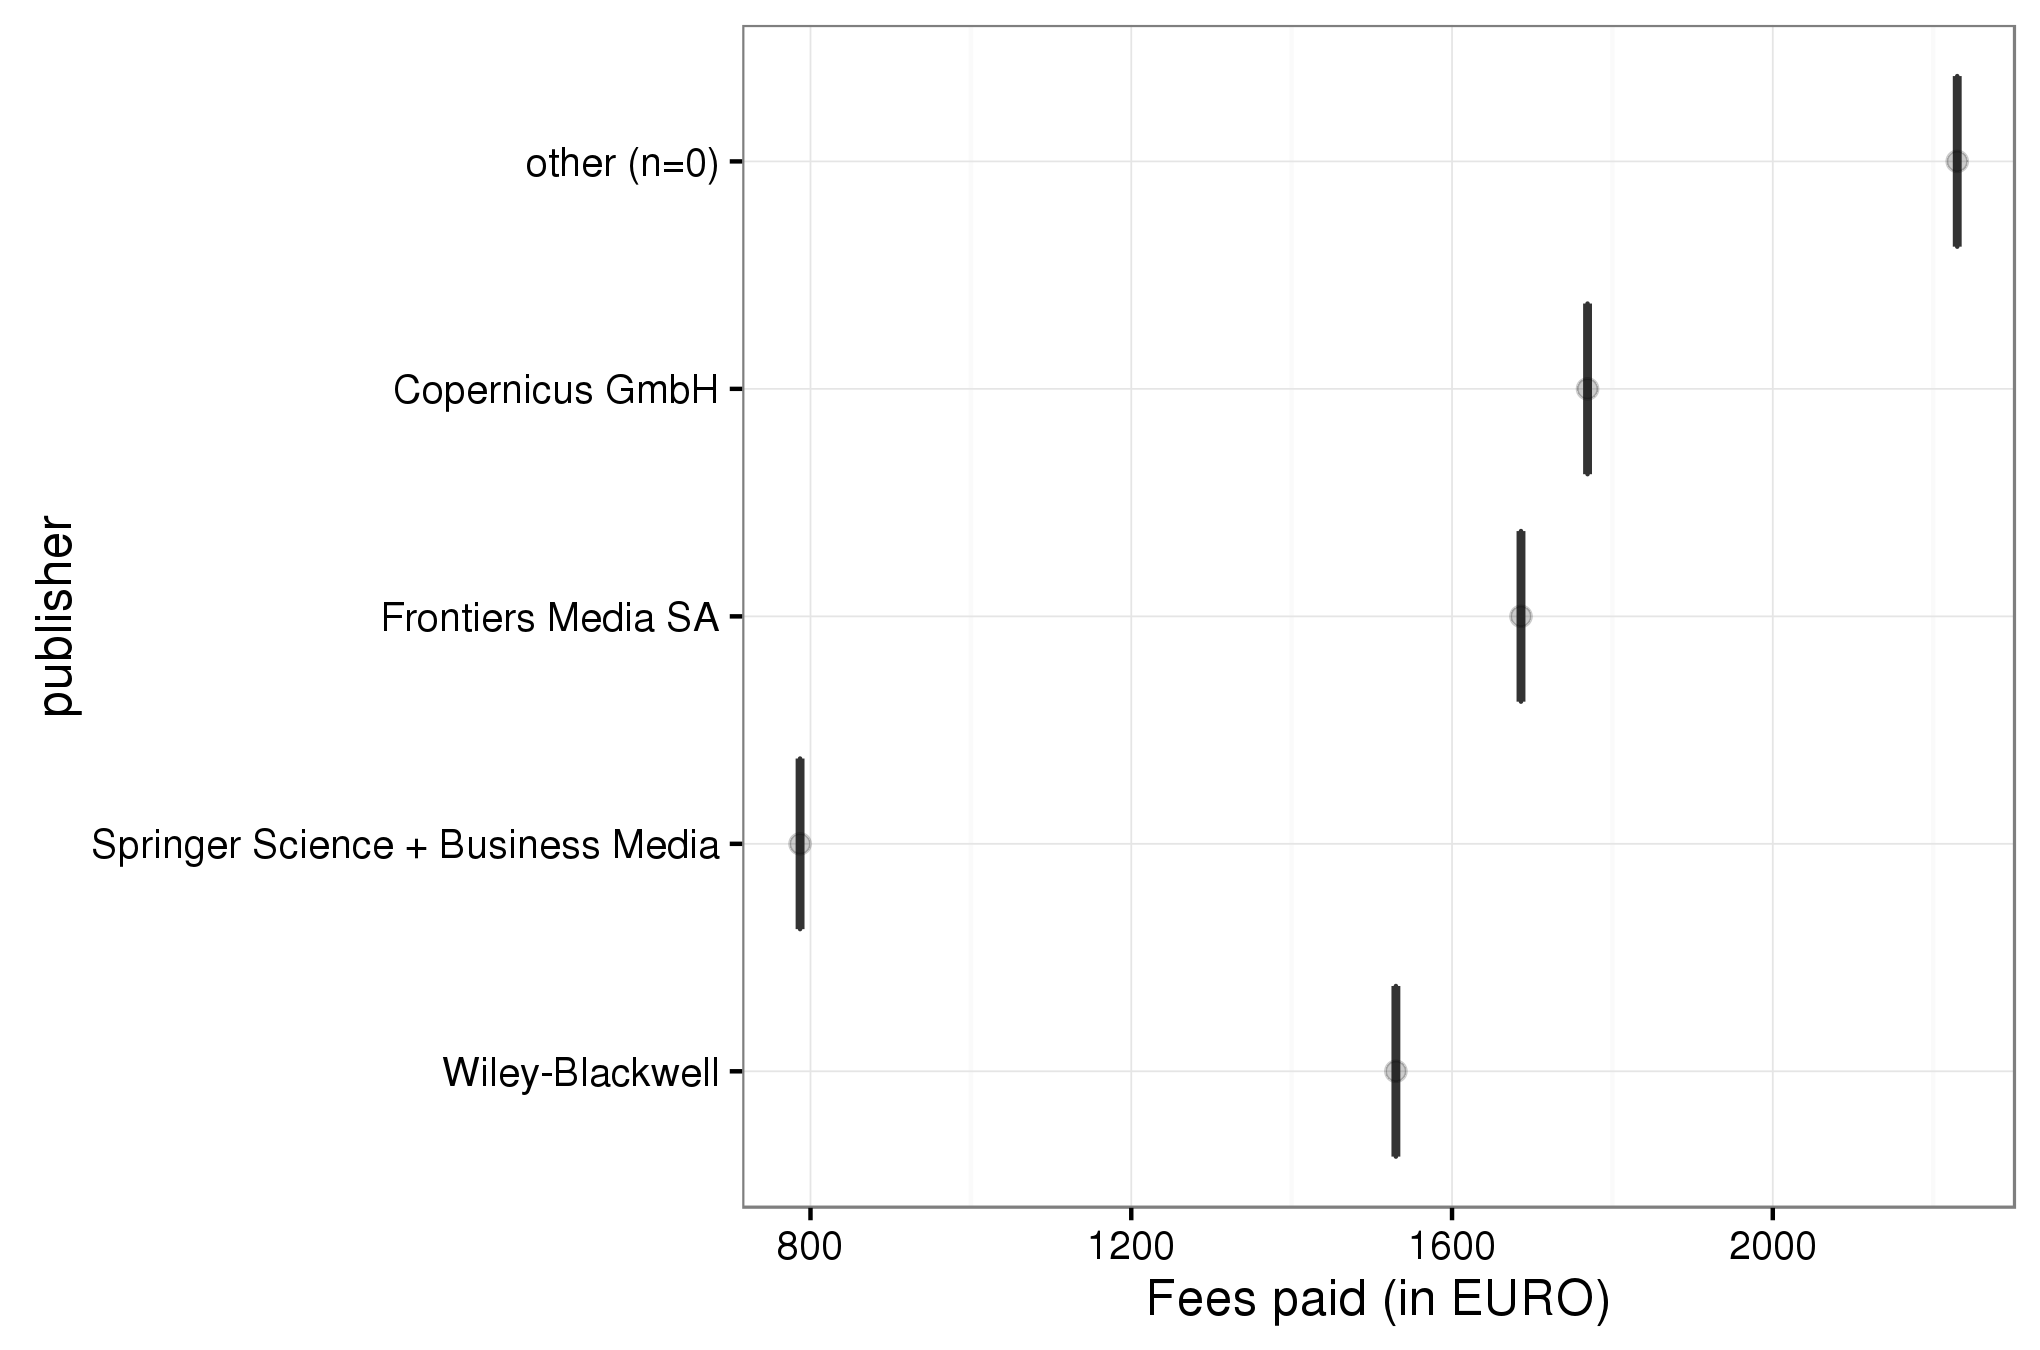
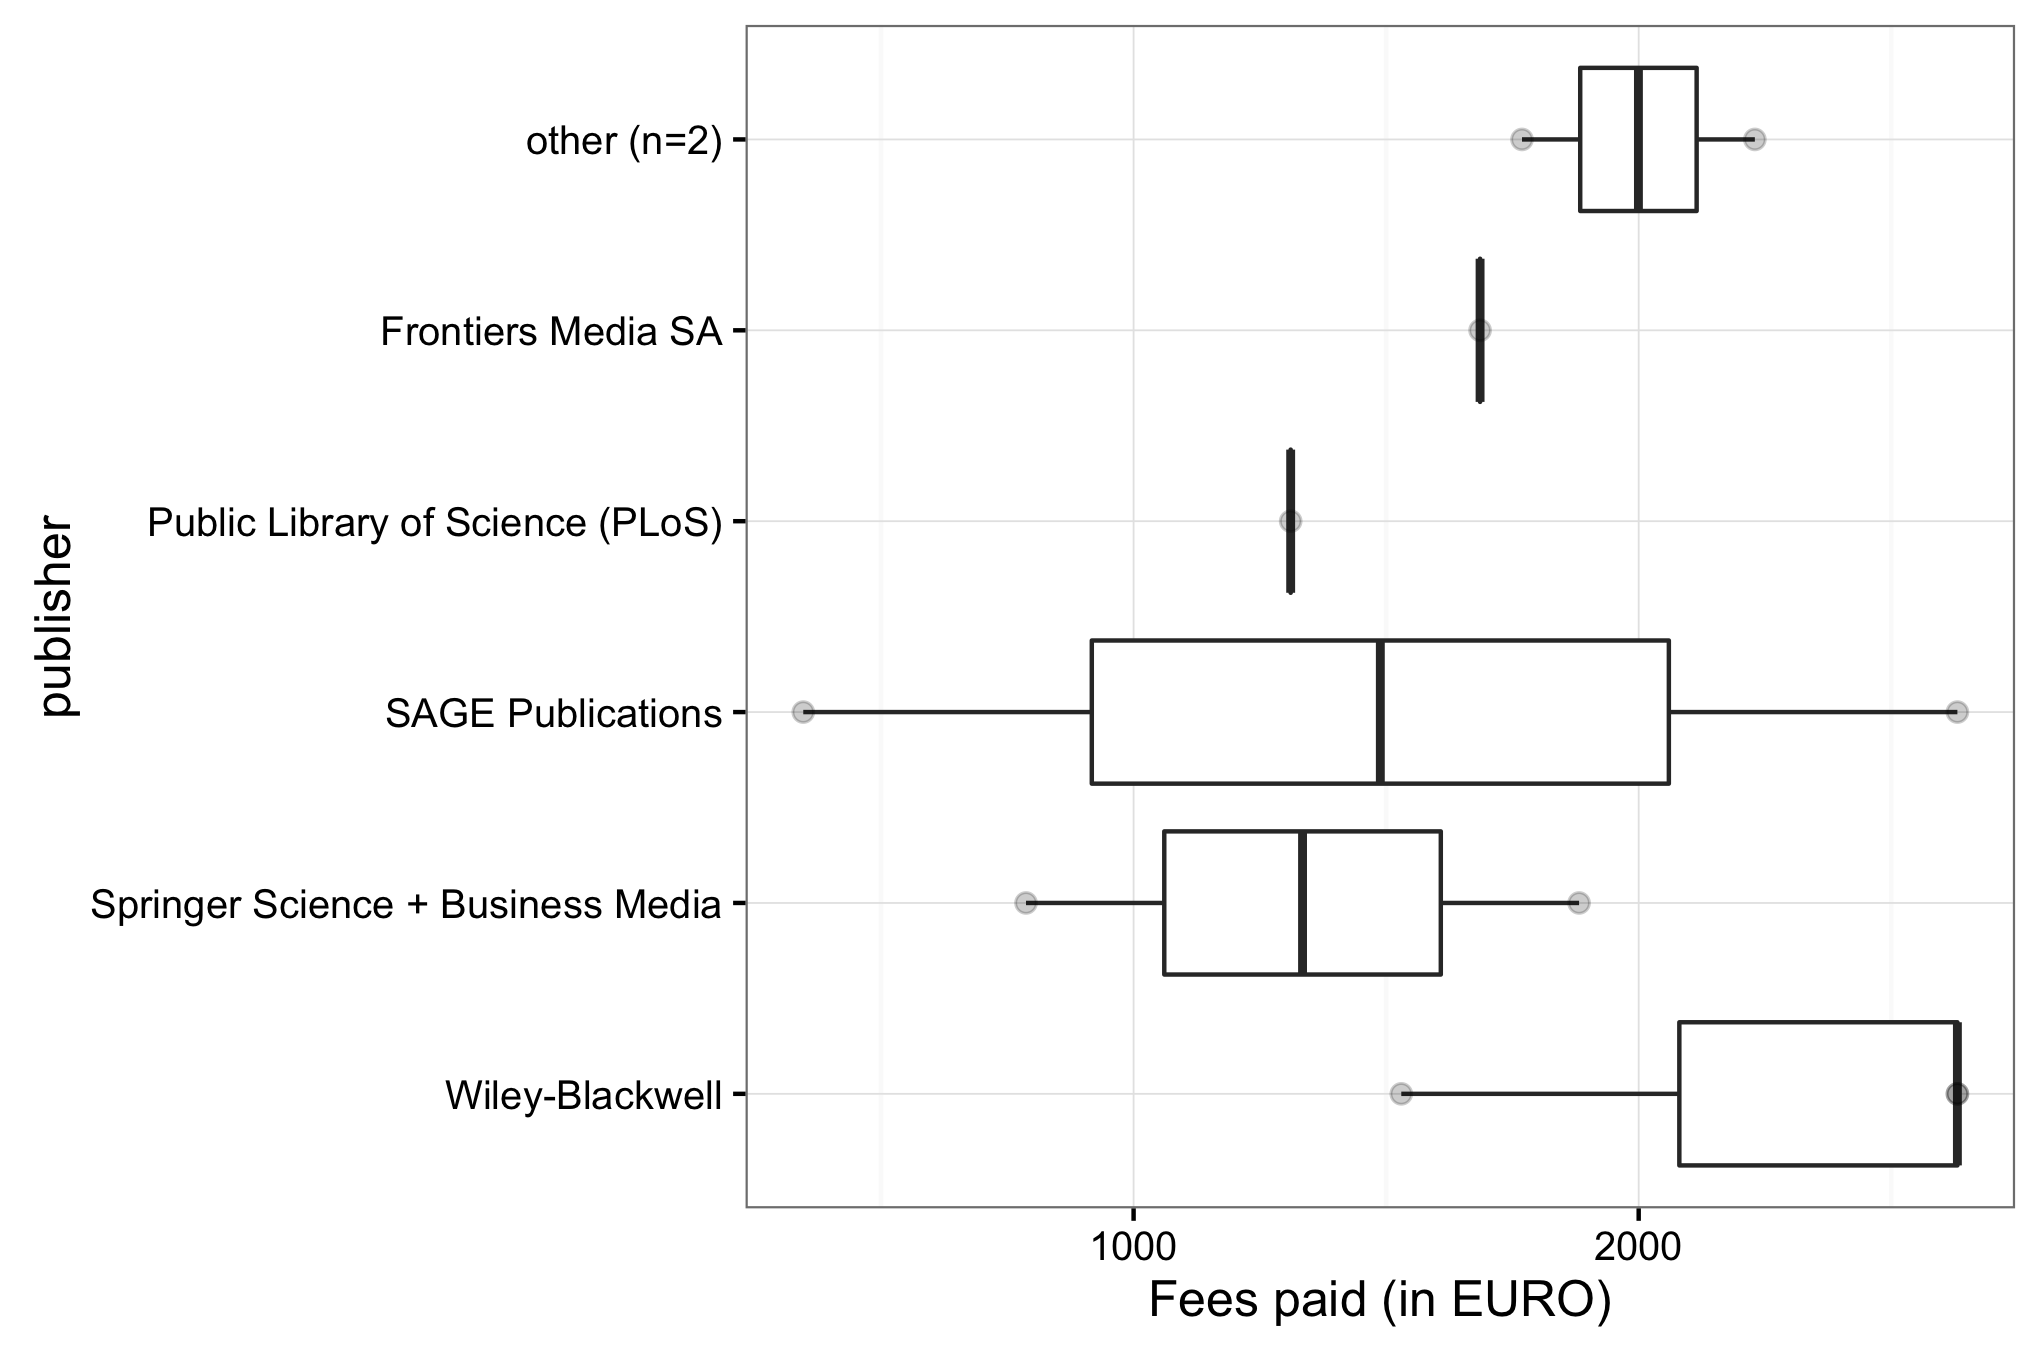
resutl from adding missing r packages

diff --git a/README.md b/README.md
@@ -55,74 +55,24 @@ The following institutions have contributed its expenditures for hybrid open acc
 ### Distribution over publishers by university
 
 
-```
-## Warning in library(package, lib.loc = lib.loc, character.only = TRUE,
-## logical.return = TRUE, : there is no package called 'ggplot2'
-```
-
-```
-## Warning in library(package, lib.loc = lib.loc, character.only = TRUE,
-## logical.return = TRUE, : there is no package called 'RColorBrewer'
-```
-
-```
-## Error in eval(expr, envir, enclos): could not find function "ggplot"
-```
-
-```
-## Error in eval(expr, envir, enclos): could not find function "ggsave"
-```
 
 ![](figure/plotPublisherAPC.png)
 
 ### Comparing fees paid by university and research institution
 
 
-```
-## Error in eval(expr, envir, enclos): could not find function "ggplot"
-```
-
-```
-## Error in eval(expr, envir, enclos): could not find function "ylab"
-```
-
-```
-## Error in eval(expr, envir, enclos): could not find function "ggsave"
-```
 
 ![](figure/boxplot_institution.png)
 
 ### Average fees paid by publisher
 
 
-```
-## Error in eval(expr, envir, enclos): could not find function "ggplot"
-```
-
-```
-## Error in eval(expr, envir, enclos): could not find function "ylab"
-```
-
-```
-## Error in eval(expr, envir, enclos): could not find function "ggsave"
-```
 
 ![](figure/plotAverageAPC.png)
 
 ### Average fees Max Planck Digital Library paid for Springer Open Access articles by year
 
 
-```
-## Error in eval(expr, envir, enclos): could not find function "ggplot"
-```
-
-```
-## Error in eval(expr, envir, enclos): could not find function "ylab"
-```
-
-```
-## Error in eval(expr, envir, enclos): could not find function "ggsave"
-```
 
 ![](figure/plotAverageSpringerMPDL.png)
 
